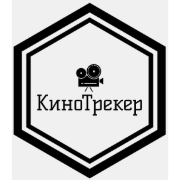
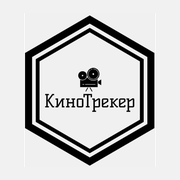
feat(pwa): иконки iOS, safe-area, прокси TMDB и правка кеширования

Changed region(s): [[0.0556, 0.0, 0.9444, 1.0]]

diff --git a/vite.config.ts b/vite.config.ts
@@ -1,113 +1,155 @@
-import { defineConfig } from 'vite'
+import { defineConfig, loadEnv, type ProxyOptions } from 'vite'
 import react from '@vitejs/plugin-react'
 import tsconfigPaths from 'vite-tsconfig-paths'
 import path from 'path'
 import { VitePWA } from 'vite-plugin-pwa'
 
-export default defineConfig(() => ({
+// TMDB недоступен напрямую из части сетей (блокировка DNS), поэтому фронтенд ходит на /tmdb/*.
+// prod: Vercel rewrites (vercel.json). dev: по умолчанию напрямую в TMDB; если он недоступен,
+// TMDB_PROXY_TARGET в .env (например, https://films-fsd.vercel.app) направляет /tmdb на задеплоенный сайт.
+const createTmdbProxy = (target?: string): Record<string, ProxyOptions> =>
+  target
+    ? { '/tmdb': { target, changeOrigin: true } }
+    : {
+        '/tmdb/api': {
+          target: 'https://api.themoviedb.org',
+          changeOrigin: true,
+          rewrite: (path) => path.replace(/^\/tmdb\/api/, '/3')
+        },
+        '/tmdb/img': {
+          target: 'https://image.tmdb.org',
+          changeOrigin: true,
+          rewrite: (path) => path.replace(/^\/tmdb\/img/, '/t/p')
+        }
+      }
+
+export default defineConfig(({ mode }) => ({
   plugins: [
     react(),
     tsconfigPaths(),
     VitePWA({
       registerType: 'autoUpdate',
-      includeAssets: ['favicon.svg', 'favicon.ico', 'apple-touch-icon.png'],
+      includeAssets: ['favicon.ico', 'favicon-96x96.png', 'apple-touch-icon.png'],
       manifest: {
+        id: '/',
         name: 'Кино Трекер',
         short_name: 'КиноТрекер',
         description: 'Твой личный список фильмов в одном месте!',
-        theme_color: '#ffffff',
-        background_color: '#000000',
+        lang: 'ru',
+        // Статичны (тема переключается в рантайме): значения тёмной темы по умолчанию.
+        // Актуальный theme-color выставляет ThemeSnackbarProvider через <meta>.
+        theme_color: '#1c1c1c',
+        background_color: '#0d0d0d',
         display: 'standalone',
-        orientation: 'portrait',
         start_url: '/',
+        scope: '/',
         icons: [
           {
             src: '/web-app-manifest-192x192.png',
             sizes: '192x192',
-            type: 'image/png'
-          },
-          {
-            src: '/web-app-manifest-512x512.png',
-            sizes: '512x512',
-            type: 'image/png'
+            type: 'image/png',
+            purpose: 'any'
           },
           {
             src: '/web-app-manifest-512x512.png',
             sizes: '512x512',
             type: 'image/png',
-            purpose: 'any maskable'
+            purpose: 'any'
+          },
+          // Отдельные maskable-иконки: рисунок в safe-zone (≈66%), фон на весь холст
+          {
+            src: '/pwa-maskable-192x192.png',
+            sizes: '192x192',
+            type: 'image/png',
+            purpose: 'maskable'
+          },
+          {
+            src: '/pwa-maskable-512x512.png',
+            sizes: '512x512',
+            type: 'image/png',
+            purpose: 'maskable'
           }
         ]
       },
       workbox: {
+        // Статика (js/css/html/иконки) попадает в precache и обновляется вместе со сборкой
+        globPatterns: ['**/*.{js,css,html,ico,png,svg}'],
+        cleanupOutdatedCaches: true,
+        navigateFallbackDenylist: [/^\/tmdb\//],
+        skipWaiting: true,
+        clientsClaim: true,
         runtimeCaching: [
+          // Каталожные запросы TMDB (через прокси /tmdb/api); account/auth не кешируем
           {
-            urlPattern: /^https:\/\/films-fsd\.vercel\.app\/.*$/,
+            urlPattern: ({ url, sameOrigin }) =>
+              sameOrigin &&
+              url.pathname.startsWith('/tmdb/api/') &&
+              !/^\/tmdb\/api\/(account|authentication)\//.test(url.pathname),
             handler: 'NetworkFirst',
             options: {
               cacheName: 'api-cache',
+              networkTimeoutSeconds: 5,
               expiration: {
                 maxEntries: 50,
                 maxAgeSeconds: 60 * 60 * 24
               },
               cacheableResponse: {
-                statuses: [0, 200]
+                statuses: [200]
               }
             }
           },
-          // Кеширование статических ресурсов
+          // Шрифты: кешируются по факту использования (нужные сабсеты), а не все сразу
           {
-            urlPattern: /\.(?:js|css|woff2?)$/i,
+            urlPattern: /\.woff2?$/i,
             handler: 'CacheFirst',
             options: {
-              cacheName: 'static-resources',
+              cacheName: 'fonts',
               expiration: {
-                maxEntries: 50,
-                maxAgeSeconds: 60 * 60 * 24 * 30
+                maxEntries: 20,
+                maxAgeSeconds: 60 * 60 * 24 * 365
               }
             }
           },
-          // Кеширование изображений
+          // Постеры и бэкдропы TMDB (через прокси /tmdb/img, same-origin)
           {
-            urlPattern: /\.(?:png|jpg|jpeg|svg|gif|webp)$/i,
+            urlPattern: ({ url, sameOrigin }) =>
+              sameOrigin && url.pathname.startsWith('/tmdb/img/'),
             handler: 'CacheFirst',
             options: {
               cacheName: 'images',
               expiration: {
-                maxEntries: 60,
+                maxEntries: 150,
                 maxAgeSeconds: 60 * 60 * 24 * 30
+              },
+              cacheableResponse: {
+                statuses: [200]
               }
             }
           }
-        ],
-        // Предварительное кеширование главных ресурсов
-        globPatterns: ['**/*.{js,css,html,ico,png,svg}'],
-        skipWaiting: true,
-        clientsClaim: true
+        ]
       }
     })
   ].filter(Boolean),
+  server: {
+    host: true,
+    port: 5173,
+    strictPort: true,
+    proxy: createTmdbProxy(loadEnv(mode, process.cwd(), '').TMDB_PROXY_TARGET)
+  },
+  // console/debugger вырезаются только в production-сборке
+  esbuild: {
+    drop: mode === 'production' ? ['console', 'debugger'] : [],
+    legalComments: 'none'
+  },
   resolve: {
     alias: {
       '@': path.resolve(__dirname, './src')
     }
   },
   build: {
-    minify: 'terser',
+    // esbuild — встроен в Vite (terser не был объявлен в package.json, а подтягивался как peer)
+    minify: 'esbuild',
     chunkSizeWarningLimit: 1000,
-    terserOptions: {
-      compress: {
-        drop_console: true,
-        drop_debugger: true,
-        pure_funcs: ['console.info', 'console.debug', 'console.log']
-      },
-      mangle: {
-        safari10: true // Улучшение совместимости
-      },
-      format: {
-        comments: false
-      }
-    },
     // Отчет о производительности сборки
     reportCompressedSize: true,
     // Настройки CSS

diff --git a/src/app/providers/theme-provider.tsx b/src/app/providers/theme-provider.tsx
@@ -1,4 +1,4 @@
-import { FC, ReactNode } from 'react'
+import { FC, ReactNode, useEffect } from 'react'
 import { CssBaseline, IconButton, ThemeProvider } from '@mui/material'
 import { SnackbarProvider, closeSnackbar } from 'notistack'
 import CloseIcon from '@mui/icons-material/Close'
@@ -13,14 +13,24 @@ interface IThemeSnackbarProviderProps {
 
 export const ThemeSnackbarProvider: FC<IThemeSnackbarProviderProps> = ({ children }) => {
   const { theme, toggleTheme } = useTheme()
+  const muiTheme = theme === 'dark' ? darkTheme : lightTheme
+
+  // Цвет системной полосы (PWA/браузер) совпадает с шапкой активной темы
+  useEffect(() => {
+    document
+      .querySelector('meta[name="theme-color"]')
+      ?.setAttribute('content', muiTheme.palette.primary.main)
+  }, [muiTheme])
+
   return (
     <ThemeContext.Provider value={{ theme, toggleTheme }}>
-      <ThemeProvider theme={theme === 'dark' ? darkTheme : lightTheme}>
+      <ThemeProvider theme={muiTheme}>
         <SnackbarProvider
           maxSnack={3}
           autoHideDuration={3000}
           anchorOrigin={{ vertical: 'top', horizontal: 'right' }}
           preventDuplicate
+          classes={{ containerAnchorOriginTopRight: 'snackbar-safe-top' }}
           action={(snackbarId) => (
             <IconButton size="small" color="inherit" onClick={() => closeSnackbar(snackbarId)}>
               <CloseIcon fontSize="small" />

diff --git a/index.html b/index.html
@@ -2,14 +2,16 @@
 <html lang="ru">
   <head>
     <meta charset="UTF-8" />
-    <link rel="icon" type="image/svg+xml" href="/favicon.png" />
-    <link rel="apple-touch-icon" href="/apple-touch-icon.png" />
+    <link rel="icon" href="/favicon.ico" sizes="48x48" />
+    <link rel="icon" type="image/png" sizes="96x96" href="/favicon-96x96.png" />
+    <link rel="apple-touch-icon" sizes="180x180" href="/apple-touch-icon.png" />
     <link rel="manifest" href="/manifest.webmanifest" />
     <meta name="apple-mobile-web-app-capable" content="yes" />
     <meta name="mobile-web-app-capable" content="yes" />
     <meta name="apple-mobile-web-app-title" content="КиноТрекер" />
     <meta name="apple-mobile-web-app-status-bar-style" content="black-translucent" />
-    <meta name="viewport" content="width=device-width, initial-scale=1.0" />
+    <meta name="theme-color" content="#1c1c1c" />
+    <meta name="viewport" content="width=device-width, initial-scale=1.0, viewport-fit=cover" />
     <title>КиноТрекер</title>
   </head>
   <body>

diff --git a/src/shared/lib/transform-movie.ts b/src/shared/lib/transform-movie.ts
@@ -1,14 +1,12 @@
 import { IMovieRaw, IMovie } from '@/shared/types'
 import { genreMap } from '@/shared/constants'
-
-const IMAGE_BASE_URL =
-  (import.meta.env.VITE_IMAGE_BASE_URL as string) || 'https://image.tmdb.org/t/p/w500'
+import { getTmdbImageUrl } from './tmdb-image'
 
 export const transformMovie = (raw: IMovieRaw): IMovie => ({
   id: raw.id,
   title: raw.title,
   rating: raw.vote_average,
-  image: raw.poster_path ? `${IMAGE_BASE_URL}${raw.poster_path}` : '',
+  image: getTmdbImageUrl(raw.poster_path),
   year: raw.release_date ? new Date(raw.release_date).getFullYear() : 0,
   genre: (raw.genre_ids ?? []).map((id) => genreMap[id] || 'Неизвестно').join(', '),
   duration: raw.runtime ?? 0,

diff --git a/src/features/movie/lib/transform-movie.ts b/src/features/movie/lib/transform-movie.ts
@@ -1,12 +1,13 @@
 import { IMovieDetails, IApiMovieResponse } from '@/features/movie'
+import { getTmdbImageUrl } from '@/shared/lib'
 
 export const transformMovieDetails = (data: IApiMovieResponse): IMovieDetails => {
   return {
     id: data.id,
     title: data.title,
     rating: data.vote_average,
-    image: `https://image.tmdb.org/t/p/w500${data.poster_path}`,
-    backgroundImage: `https://image.tmdb.org/t/p/original${data.backdrop_path}`,
+    image: getTmdbImageUrl(data.poster_path),
+    backgroundImage: getTmdbImageUrl(data.backdrop_path, 'original'),
     releaseDate: data.release_date,
     genre: data.genres.map((genre) => genre.name).join(', '),
     genres: data.genres,

diff --git a/src/entities/user/ui/user-subscription-info.tsx b/src/entities/user/ui/user-subscription-info.tsx
@@ -4,6 +4,7 @@ import { Alert, AlertTitle, Box, Button, CircularProgress, Typography } from '@m
 
 import { useAuth } from '@/features/auth'
 import { useUserDetails } from '@/features/user'
+import { getTmdbImageUrl } from '@/shared/lib'
 import { IApiError } from '@/shared/types'
 import avatar from '@/shared/assets/images/avatar.png'
 
@@ -92,7 +93,7 @@ export const UserSubscriptionInfo: FC = () => {
     >
       {user.avatar?.tmdb?.avatar_path ? (
         <img
-          src={`https://image.tmdb.org/t/p/w500${user.avatar.tmdb.avatar_path}`}
+          src={getTmdbImageUrl(user.avatar.tmdb.avatar_path)}
           alt="avatar"
           width="90"
           height="95"

diff --git a/src/entities/movie/ui/watch-providers.tsx b/src/entities/movie/ui/watch-providers.tsx
@@ -1,6 +1,8 @@
 import { FC } from 'react'
 import { Box, Tooltip } from '@mui/material'
 
+import { getTmdbImageUrl } from '@/shared/lib'
+
 interface IProvider {
   provider_id: number
   provider_name: string
@@ -17,7 +19,7 @@ export const WatchProviders: FC<IProps> = ({ providers }) => {
       {providers.map((p) => (
         <Tooltip title={p.provider_name} key={p.provider_id}>
           <img
-            src={`https://image.tmdb.org/t/p/w45${p.logo_path}`}
+            src={getTmdbImageUrl(p.logo_path, 'w45')}
             alt={p.provider_name}
             style={{ width: 32, height: 32 }}
           />

diff --git a/src/widgets/header/styles/header.styles.ts b/src/widgets/header/styles/header.styles.ts
@@ -3,7 +3,12 @@ import { SxProps } from '@mui/material'
 export const appBarStyles: SxProps = {
   backgroundColor: 'primary.main',
   backgroundImage: 'none',
-  padding: { xs: '15px', md: '15px 30px', lg: '15px 30px' },
+  // Верхний отступ учитывает вырез/статус-бар iOS (viewport-fit=cover + black-translucent)
+  padding: {
+    xs: 'calc(15px + env(safe-area-inset-top)) 15px 15px',
+    md: 'calc(15px + env(safe-area-inset-top)) 30px 15px',
+    lg: 'calc(15px + env(safe-area-inset-top)) 30px 15px'
+  },
   display: 'flex',
   gap: 2,
   alignItems: 'center',

diff --git a/src/shared/config/tmdb.ts b/src/shared/config/tmdb.ts
@@ -1,0 +1,4 @@
+// TMDB недоступен напрямую из части сетей (блокировка DNS), поэтому браузер ходит на
+// собственный домен, а дальше запросы проксируются: Vercel rewrites (prod) / Vite proxy (dev).
+export const TMDB_API_BASE = '/tmdb/api'
+export const TMDB_IMAGE_BASE = '/tmdb/img'

diff --git a/src/shared/api/tmdb/api-client.ts b/src/shared/api/tmdb/api-client.ts
@@ -1,10 +1,11 @@
 import axios, { AxiosError } from 'axios'
 import { ITMDBError } from '@/shared/types'
+import { TMDB_API_BASE } from '@/shared/config'
 
 const API_KEY = import.meta.env.VITE_TMDB_API_KEY as string
 
 export const api = axios.create({
-  baseURL: 'https://api.themoviedb.org/3',
+  baseURL: TMDB_API_BASE,
   headers: {
     'Content-Type': 'application/json'
   },

diff --git a/src/app/styles/global.sass b/src/app/styles/global.sass
@@ -155,3 +155,7 @@ input,
 textarea
   -webkit-font-smoothing: antialiased
   -moz-osx-font-smoothing: grayscale
+
+/* Уведомления не должны заезжать под статус-бар iOS (safe-area) */
+.notistack-SnackbarContainer.snackbar-safe-top
+  top: calc(14px + env(safe-area-inset-top))

diff --git a/src/shared/lib/tmdb-image.ts b/src/shared/lib/tmdb-image.ts
@@ -1,0 +1,6 @@
+import { TMDB_IMAGE_BASE } from '@/shared/config'
+
+export type TTmdbImageSize = 'w45' | 'w500' | 'original'
+
+export const getTmdbImageUrl = (path: string | null | undefined, size: TTmdbImageSize = 'w500') =>
+  path ? `${TMDB_IMAGE_BASE}/${size}${path}` : ''
